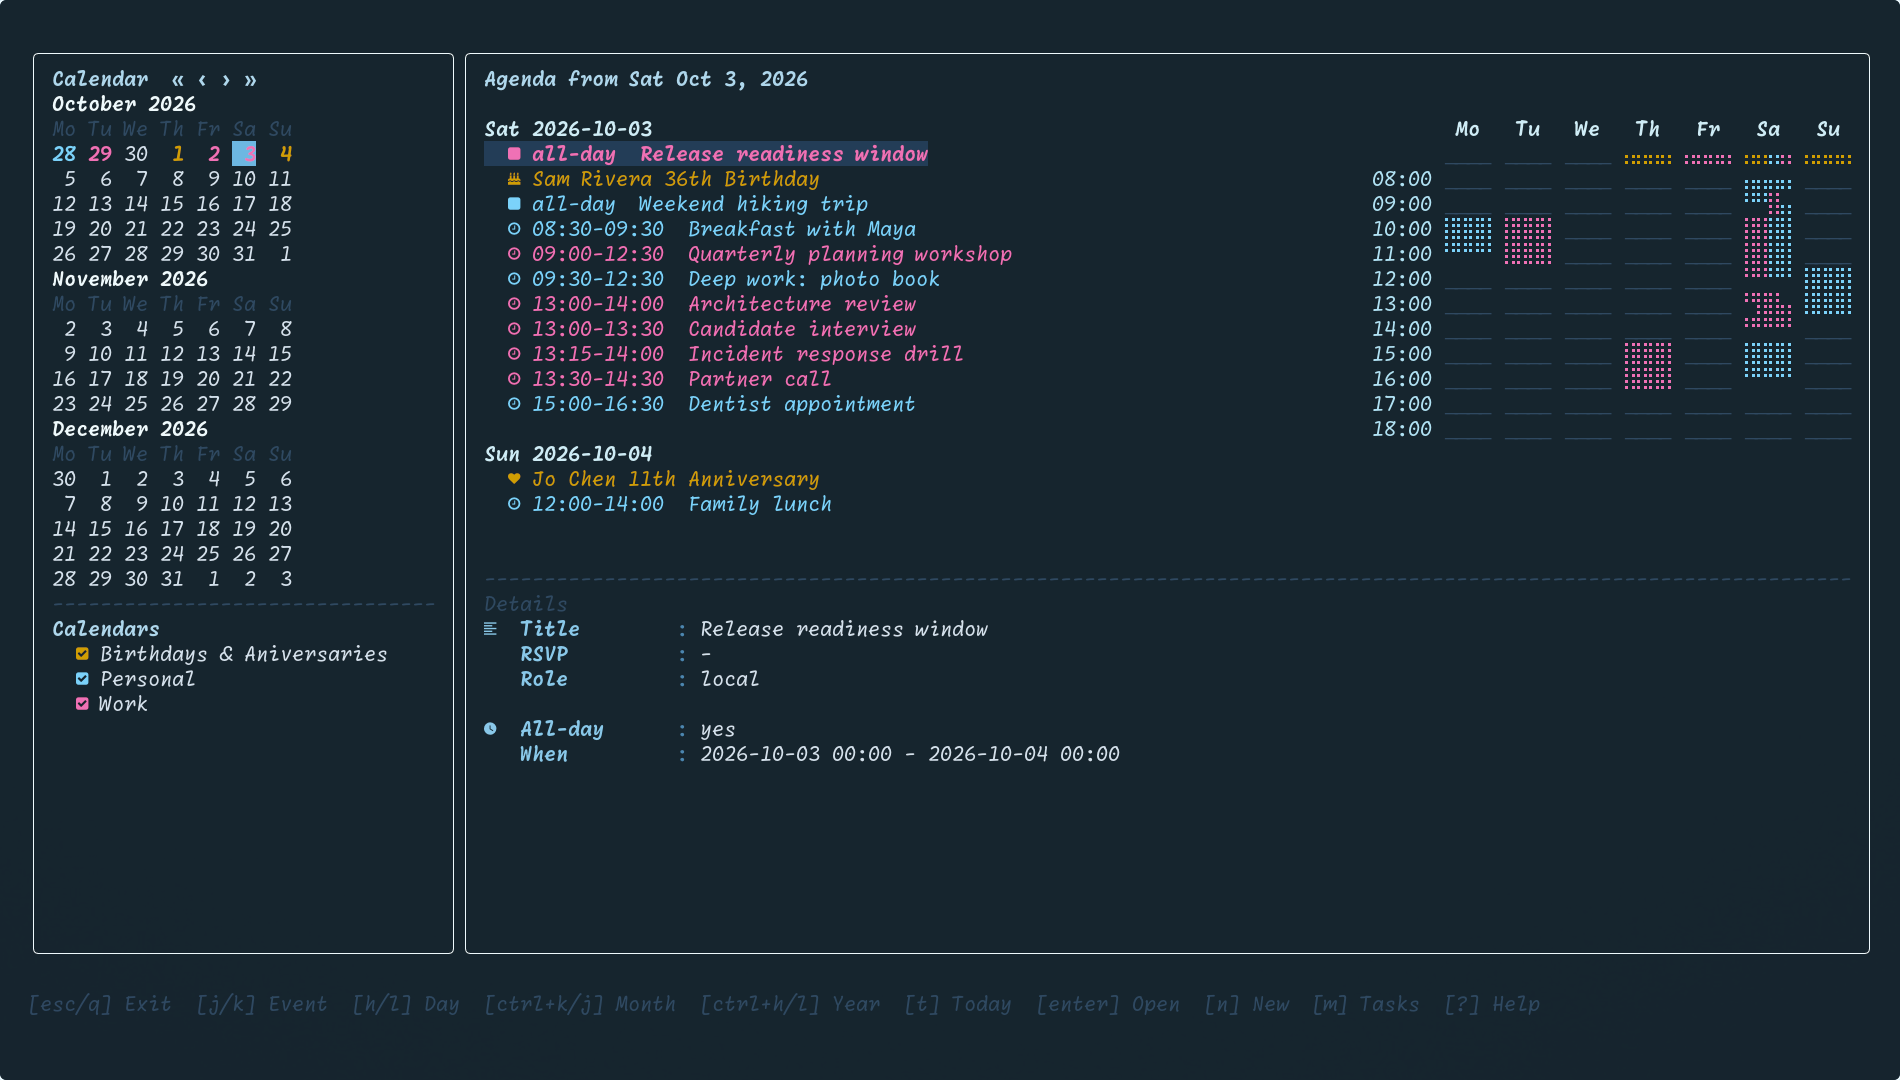
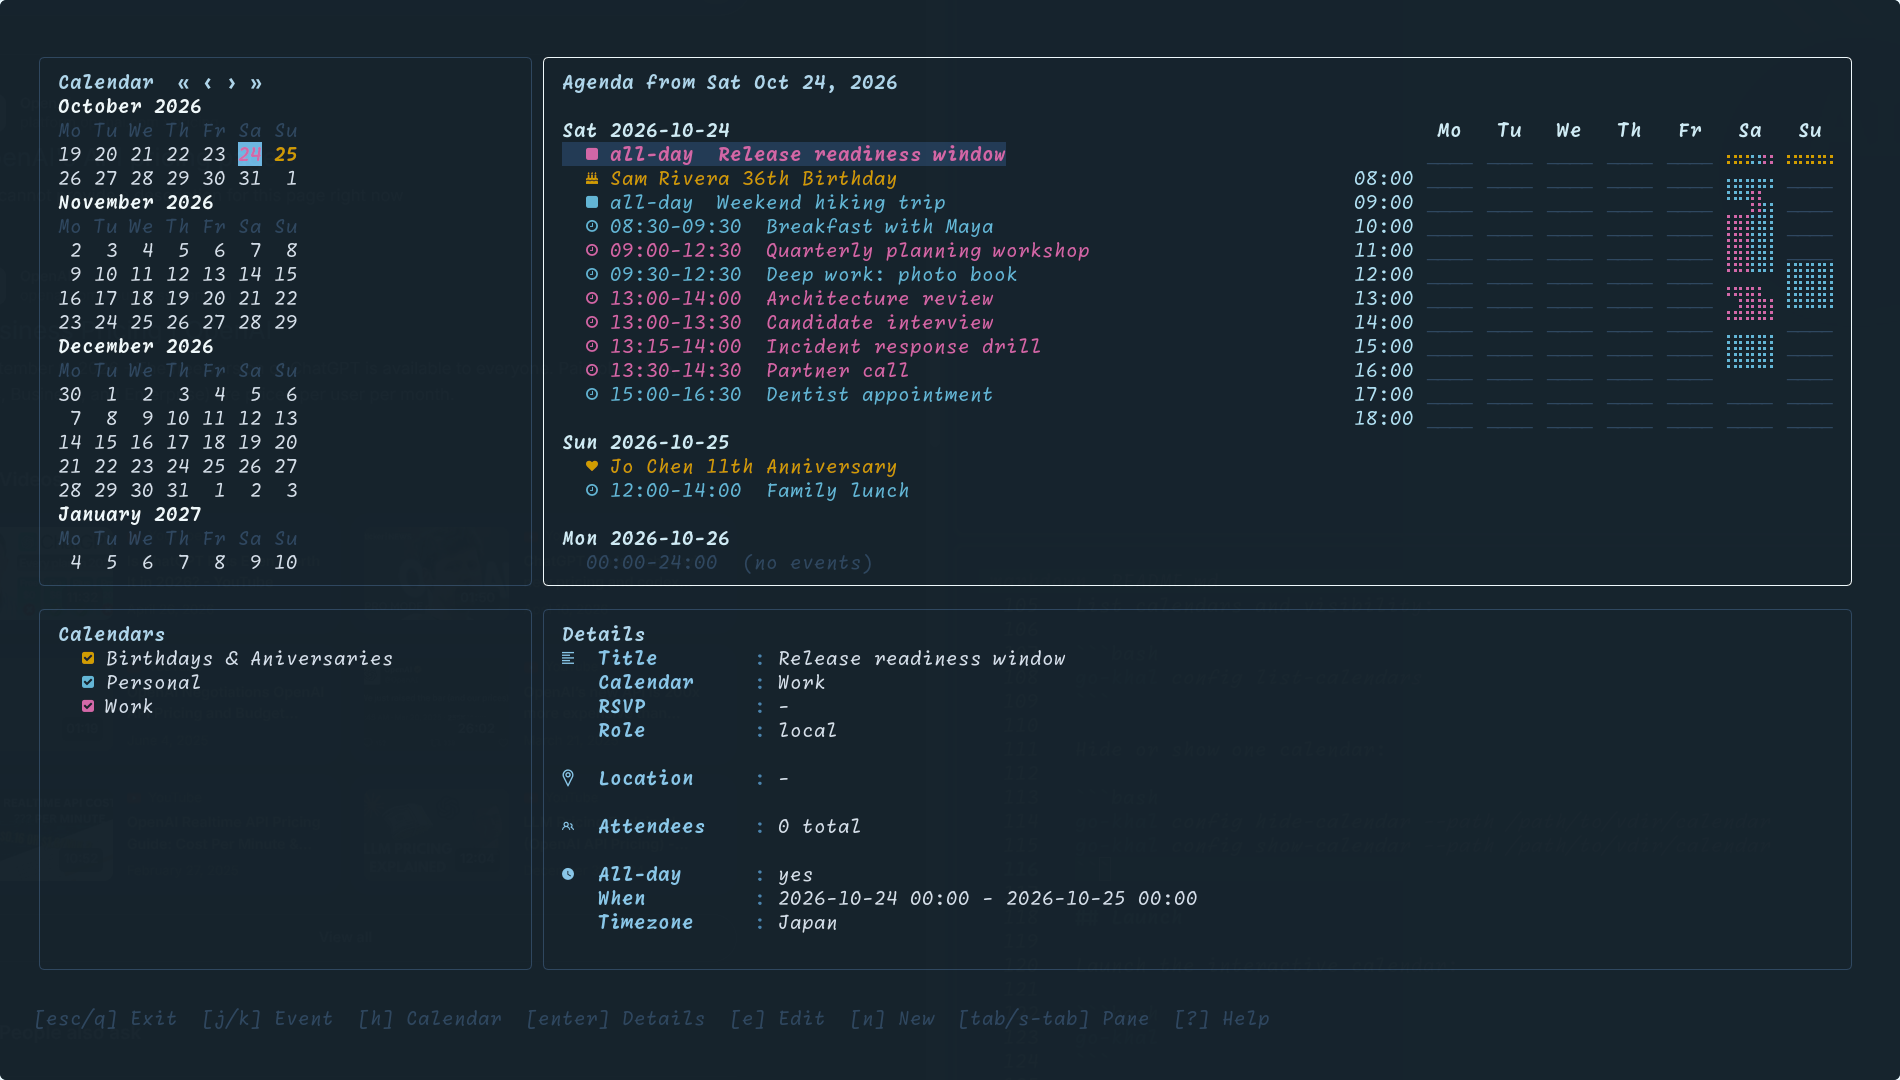
docs: update readme and screenshots

diff --git a/README.md b/README.md
@@ -1,9 +1,10 @@
 # go-khal
 
-`go-khal` is a terminal calendar and task manager inspired by `pimutils/khal`.
-It reads calendars and todos from local vdir directories (for example synced by
-`vdirsyncer`) and renders an interactive agenda with calendar visibility
-controls, event details, and task management.
+`go-khal` is a terminal calendar and task manager inspired by
+[pimutils/khal](https://github.com/pimutils/khal). It reads calendars and todos
+from local vdir directories (for example, synced by
+[vdirsyncer](https://github.com/pimutils/vdirsyncer)) and renders an interactive
+agenda with calendar visibility controls, event details, and task management.
 
 ## Status
 
@@ -23,19 +24,19 @@ without issues but cannot guarantee there won't be issues with other calendars.
   confirmed destructive actions in edit forms
 - Event attendees auto-completion from VCARD contacts.
 - Birthday events from VCARD contacts.
-- Configurable calendar and addressbook sources that point directly at vdirsyncer folders
+- Configurable calendar and addressbook sources that point directly at
+  [vdirsyncer](https://github.com/pimutils/vdirsyncer) folders
 - Per-calendar metadata (display name, color) including discovery from `displayname`/`color` files
 - Per-calendar show/hide controls to include/exclude all events and todos
 - Optional Nerd Font glyphs for the richest terminal rendering
-- Automatic Omarchy palette support with live theme reloads on Linux Omarchy
-  Quattro; application surfaces keep the terminal's default background, and
-  form actions use palette-defined focus states
+- Automatic Omarchy Quattro palette support with live theme reloads.
 
 ## Installation
 
 Requirements:
 
-- Local vdir calendar/task/contact data, commonly synced by `vdirsyncer`
+- Local vdir calendar/task/contact data, commonly synced by
+  [vdirsyncer](https://github.com/pimutils/vdirsyncer)
 - A terminal that supports color and alternate screen applications
 - A Nerd Font-compatible terminal font is recommended
 - `$EDITOR` or `$VISUAL` is used for description editing with `ctrl+e`; if neither is set, `nano` is used
@@ -44,19 +45,23 @@ Requirements:
 
 Download the archive for your platform from the [GitHub releases page](https://github.com/hsanson/go-khal/releases).
 
-Release artifacts are named by version, OS, and CPU architecture, for example `go-khal_v0.0.9_linux_amd64.tar.gz`, `go-khal_v0.0.9_darwin_arm64.tar.gz`, and `go-khal_v0.0.9_windows_amd64.zip`.
+Release artifacts are named by version, OS, and CPU architecture, for example
+`go-khal_v0.6.0_linux_amd64.tar.gz`, `go-khal_v0.6.0_darwin_arm64.tar.gz`, and
+`go-khal_v0.6.0_windows_amd64.zip`.
 
 Linux x86_64 example:
 
 ```bash
-curl -LO https://github.com/hsanson/go-khal/releases/download/v0.0.9/go-khal_v0.0.9_linux_amd64.tar.gz
-curl -LO https://github.com/hsanson/go-khal/releases/download/v0.0.9/SHA256SUMS
+export VERSION=0.6.0
+curl -LO "https://github.com/hsanson/go-khal/releases/download/v${VERSION}/go-khal_v${VERSION}_linux_amd64.tar.gz"
+curl -LO "https://github.com/hsanson/go-khal/releases/download/v${VERSION}/SHA256SUMS"
 sha256sum -c SHA256SUMS --ignore-missing
-tar -xzf go-khal_v0.0.9_linux_amd64.tar.gz
+tar -xzf "go-khal_v${VERSION}_linux_amd64.tar.gz"
 install -m 0755 go-khal ~/.local/bin/go-khal
 ```
 
-Replace `v0.0.9` with the release version you want. Release pages include checksums in `SHA256SUMS` for verification.
+Set `VERSION` to the release you want. Release pages include checksums in
+`SHA256SUMS` for verification.
 
 ### Install From Source
 
@@ -66,7 +71,7 @@ Source installs require Go 1.24.2 or newer.
 go install github.com/hsanson/go-khal@latest
 ```
 
-Make sure your Go binary directory, usually `~/go/bin`, is in your `PATH`.
+Make sure `$GOPATH/bin` is in your `PATH`.
 
 Print the application and build toolchain versions:
 
@@ -76,14 +81,20 @@ go-khal version
 
 ## Quick Start
 
-
-Generate config sources from local vdirsyncer storages:
+Generate config sources from local
+[vdirsyncer](https://github.com/pimutils/vdirsyncer) storage directories:
 
 ```bash
 go-khal config from-vdirsyncer
 ```
 
-Pass a config path when vdirsyncer uses a non-default location:
+> [!WARNING]
+> If `khal/config` already exists, `from-vdirsyncer` updates it in place.
+> Discovered sources are added if not already in the configuration or updated if already
+> in the configuration. Unmatched calendars and other settings are preserved.
+
+Pass a config path when [vdirsyncer](https://github.com/pimutils/vdirsyncer)
+uses a non-default location:
 
 ```bash
 go-khal config from-vdirsyncer /path/to/vdirsyncer/config
@@ -102,69 +113,20 @@ List calendars and visibility:
 go-khal config list-calendars
 ```
 
-Hide/show one calendar:
+Hide or show one calendar:
 
 ```bash
 go-khal config hide-calendar --path /path/to/vdir/calendar
 go-khal config show-calendar --path /path/to/vdir/calendar
 ```
 
-Show agenda in plain text:
-
-```bash
-go-khal agenda
-go-khal agenda 10
-go-khal agenda --birthdays 10
-go-khal agenda --max-length 80
-```
-
-Import an iCalendar attachment non-interactively from stdin:
-
-```bash
-go-khal import < invite.ics
-go-khal import -a work < invite.ics
-```
-
-This works with NeoMutt's `<pipe-entry>go-khal import<enter>`. Use
-`<pipe-entry>go-khal import -a work<enter>` to choose the destination calendar.
-Without `-a`, new event UIDs are added to the first configured calendar.
-Existing UIDs are updated in their current calendars.
-
-Import from a mailcap entry:
-
-```mailcap
-text/calendar; go-khal import "%s"; needsterminal
-```
-
-A file containing multiple events is imported non-interactively. For a
-single-event file, go-khal opens a prefilled create form, or a prefilled edit
-form when that UID already exists. The `needsterminal` flag lets NeoMutt run
-that interactive form correctly. Do not use `copiousoutput`: it is intended
-for commands whose text output should be displayed in NeoMutt's pager.
+## Launch
 
 Launch the interactive calendar:
 
 ```bash
 go-khal
 ```
-
-Common agenda and task shortcuts appear in the bottom legend. Less common
-navigation, paging, and detail-pane shortcuts appear in contextual shortcut
-help `?`.
-
-The workspace contains four panes: Calendar, Agenda/Tasks, Details, and
-Calendars. `Tab` moves clockwise between panes, and `Shift-Tab` moves
-counterclockwise. The active pane has a highlighted border.
-
-- Calendar: use `h/j/k/l` to move left/down/up/right, `Enter` to focus the
-  selected date in Agenda/Tasks, and `n` to create an item.
-- Agenda: use `Enter` to focus Details, `e` to edit, `n` to create, and `h`
-  to return to Calendar. When the selected event contains a Google Meet,
-  Microsoft Teams, or Zoom link, use `v` to join it. In Tasks mode, `Space`
-  toggles completion.
-- Details: use `j/k` to scroll, `e` to edit, and `n` to create. Video-call
-  rows can be clicked to join; `v` joins the first call shown.
-- Calendars: use `j/k` to select a calendar and `Space` to hide or show it.
 
 Open directly in task mode:
 
@@ -178,7 +140,104 @@ Create a task directly in the same editor used by the interactive calendar:
 go-khal todo new
 ```
 
-## Omarchy Calendar
+## Integrations
+
+### Plain Text
+
+`go-khal agenda` writes one upcoming event per line for status bars, scripts,
+and other tools that consume plain text. Pass an optional positive `COUNT` to
+limit the number of events. Use `--max-length` to limit each line's width or
+`--birthdays` to show birthdays and anniversaries instead of regular events.
+
+```bash
+go-khal agenda
+go-khal agenda 1
+go-khal agenda 10
+go-khal agenda --birthdays 10
+go-khal agenda 1 --max-length 80
+```
+
+### tmux
+
+Add the next event to the right side of the tmux status bar:
+
+```tmux
+set-option -ag status-right ' #(go-khal agenda 1 --max-length 80)'
+```
+
+### Lualine
+
+Add a cached custom component to
+[Lualine](https://github.com/nvim-lualine/lualine.nvim). This example retains
+the default filename component and refreshes the next event at most once per
+minute:
+
+```lua
+local next_event = ""
+local refresh_after = 0
+
+local function go_khal_agenda()
+  local now = os.time()
+  if now < refresh_after then
+    return next_event
+  end
+  refresh_after = now + 60
+
+  local ok, lines = pcall(vim.fn.systemlist, {
+    "go-khal",
+    "agenda",
+    "1",
+    "--max-length",
+    "80",
+  })
+  next_event = ok and vim.v.shell_error == 0
+      and vim.trim(lines[1] or "")
+    or ""
+  return next_event
+end
+
+require("lualine").setup({
+  sections = {
+    lualine_c = { "filename", go_khal_agenda },
+  },
+})
+```
+
+### NeoMutt
+
+`go-khal import` reads iCalendar data from stdin and imports it
+non-interactively:
+
+```bash
+go-khal import < invite.ics
+go-khal import -a work < invite.ics
+```
+
+In NeoMutt, pipe the selected attachment to the same commands:
+
+```text
+<pipe-entry>go-khal import<enter>
+<pipe-entry>go-khal import -a work<enter>
+```
+
+Without `-a`, new event UIDs are added to the first configured calendar.
+Existing UIDs are updated in their current calendars.
+
+### mailcap
+
+Import a calendar file through a mailcap entry:
+
+```mailcap
+text/calendar; go-khal import "%s"; needsterminal
+```
+
+A file containing multiple events is imported non-interactively. For a
+single-event file, go-khal opens a prefilled create form, or a prefilled edit
+form when that UID already exists. The `needsterminal` flag lets NeoMutt run
+that interactive form correctly. Do not use `copiousoutput`: it is intended
+for commands whose text output should be displayed in NeoMutt's pager.
+
+### Omarchy Calendar
 
 Omarchy Calendar looks for an executable named `khal`. If the original khal is
 not installed, link go-khal under that name:
@@ -197,11 +256,11 @@ complete khal CLI.
 
 ### Agenda with weekly minimap
 
-![Agenda with Personal, Work, and Birthdays calendars and a weekly minimap](img/agenda-minimap.png)
+![Four-pane agenda with Personal, Work, and Birthdays calendars and a weekly minimap](img/agenda-minimap.png)
 
 ### Todo view
 
-![Todo view with tasks from Personal and Work calendars](img/todo-view.png)
+![Four-pane todo view with tasks from Personal and Work calendars](img/todo-view.png)
 
 ### Event editor
 
@@ -213,8 +272,15 @@ complete khal CLI.
 
 ## Configuration
 
-The canonical configuration is `${XDG_CONFIG_HOME:-$HOME/.config}/khal/config`,
-shared with khal and Omarchy Calendar:
+go-khal uses the same configuration file as
+[pimutils/khal](https://github.com/pimutils/khal), with an additional global
+`[go-khal]` section for go-khal settings.
+
+It chooses the first applicable configuration path in this order:
+
+1. The path passed with `--config PATH`.
+2. `$XDG_CONFIG_HOME/khal/config` when `XDG_CONFIG_HOME` is set.
+3. `$HOME/.config/khal/config` when `XDG_CONFIG_HOME` is not set.
 
 ```ini
 [calendars]
@@ -262,12 +328,7 @@ forms. Unsupported directives produce an actionable error instead of silently
 rendering the wrong value. go-khal currently uses the host timezone and ignores
 khal's custom `local_timezone` and `default_timezone` settings.
 
-The former `~/.config/go-khal/config.json` format is deprecated and scheduled
-for removal in a future release. When the canonical khal config is absent,
-go-khal reads that JSON file without modifying it. The next config-mutating
-command creates the canonical khal config and leaves the JSON file untouched.
-
-## Notes
+### Notes
 
 - Paths expand `~` and environment variables. Direct `calendar` and `birthdays`
   paths name one folder; `discover` paths expand matching calendar folders.
